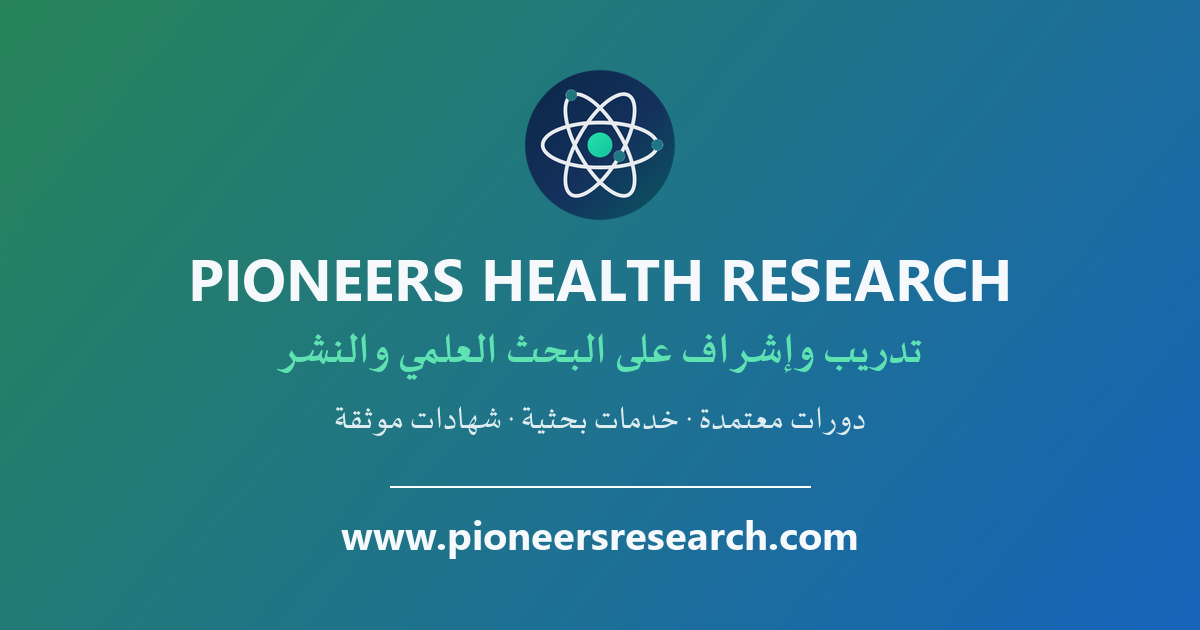
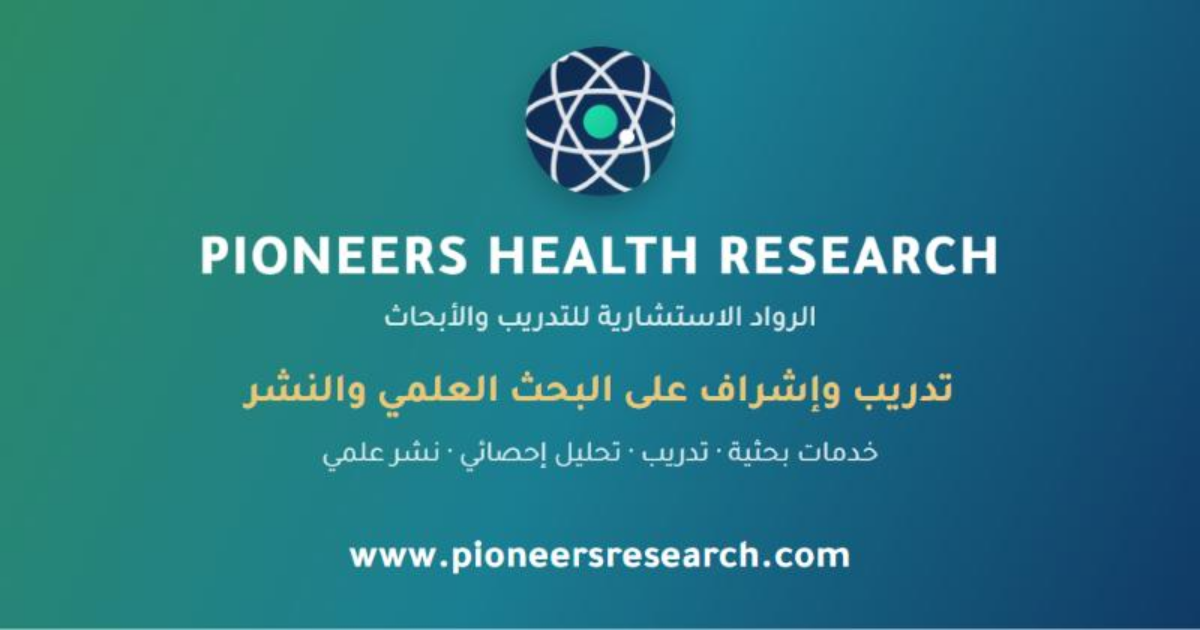
brand(og): remove unearned 'دورات معتمدة' claim from the share image
Regenerate og-image.png (1200x630) with honest copy — خدمات بحثية · تدريب ·
تحليل إحصائي · نشر علمي — and the current Arabic brand name الرواد الاستشارية
للتدريب والأبحاث. Bump og:image/twitter:image to ?v=2 so crawlers fetch the
new image instead of the cached one.

diff --git a/web/index.html b/web/index.html
@@ -37,7 +37,7 @@
       content="استشارات وتدريب على البحث العلمي: مستشار بحث، مساعدة رسائل الماجستير والدكتوراه، خطة البحث، التحليل الإحصائي SPSS، والنشر في المجلات المحكمة وسكوبس."
     />
     <meta property="og:url" content="https://pioneersresearch.com/" />
-    <meta property="og:image" content="https://pioneersresearch.com/og-image.png" />
+    <meta property="og:image" content="https://pioneersresearch.com/og-image.png?v=2" />
     <meta property="og:image:width" content="1200" />
     <meta property="og:image:height" content="630" />
     <meta property="og:locale" content="ar_SA" />
@@ -50,7 +50,7 @@
       name="twitter:description"
       content="تدريب وإشراف أكاديمي على البحث العلمي من صياغة السؤال البحثي حتى النشر."
     />
-    <meta name="twitter:image" content="https://pioneersresearch.com/og-image.png" />
+    <meta name="twitter:image" content="https://pioneersresearch.com/og-image.png?v=2" />
 
     <!-- Structured data: helps Google show a rich, branded result and connect
          the brand name to this site. Add your real social URLs to "sameAs". -->
@@ -80,7 +80,7 @@
             ],
             "url": "https://pioneersresearch.com/",
             "logo": "https://pioneersresearch.com/pwa-512.png",
-            "image": "https://pioneersresearch.com/og-image.png",
+            "image": "https://pioneersresearch.com/og-image.png?v=2",
             "email": "support@pioneersresearch.com",
             "description": "الرواد الاستشارية للتدريب والأبحاث (Pioneers Health Research) — بايونيرز للأبحاث الصحية — منصة سعودية للتدريب والإشراف والاستشارات في البحث العلمي، ترافق الأفراد والمؤسسات من صياغة السؤال البحثي والمنهجية والتحليل الإحصائي حتى النشر، عبر دورات وبرامج تدريبية وخدمات بحثية وشهادات موثّقة.",
             "disambiguatingDescription": "A Saudi research training, mentorship and consulting platform for scientific research — not affiliated with any other 'Pioneer' data hub.",
